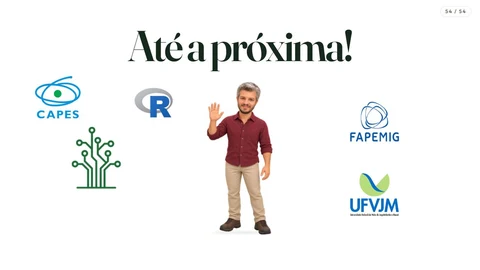
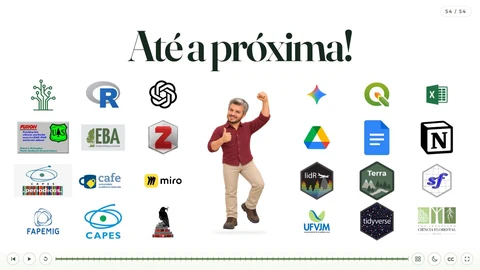
ok

diff --git a/slide-overview.js b/slide-overview.js
@@ -82,7 +82,7 @@
       const theme = document.body.classList.contains('projector') ? 'light' : 'original';
       const current = getCurrentSlide();
       cards.forEach(card => {
-        card.image.src = `assets/slides/${theme}/${String(card.slide).padStart(2, '0')}.webp?v=20261026-despedida-simbolos-2`;
+        card.image.src = `assets/slides/${theme}/${String(card.slide).padStart(2, '0')}.webp?v=20261026-despedida-acumulada-24`;
         card.button.classList.toggle('is-current', card.slide === current);
         if (card.slide === current) card.button.setAttribute('aria-current', 'page');
         else card.button.removeAttribute('aria-current');

diff --git a/index.html b/index.html
@@ -746,7 +746,7 @@
 <script src="foliage-intro.js?v=beaa0df02c16"></script>
 <script src="bookends.js?v=10c9e34ed564"></script>
 <script src="projector-theme.js?v=d73ce17c23a6"></script>
-<script src="slide-overview.js?v=828186cda1f4"></script>
+<script src="slide-overview.js?v=3b66d46094d2"></script>
 <script src="main.js?v=17fc735998a8"></script>
 </body>
 </html>

diff --git a/assets/characters/gustavo-acumulacao-prompt.md b/assets/characters/gustavo-acumulacao-prompt.md
@@ -1,8 +1,8 @@
 # Poses novas para a despedida
 
-Arquivo: `gustavo-acumulacao.png`, PNG RGBA 1024 × 1536, criado com a ferramenta integrada imagegen a partir de `gustavo.png`. As quatro poses são malabarismo, carregar uma pilha, agarrar no alto e comemorar. Os recortes SVG em `index.html` preservam mãos e calçados, inclusive os dedos da pose de agarrar que ultrapassam a divisão horizontal da folha de poses.
+Arquivo: [gustavo-acumulacao.png](C:/Users/Linse/Downloads/josi/assets/characters/gustavo-acumulacao.png), PNG RGBA 1024 × 1536, criado com a ferramenta integrada imagegen a partir de `gustavo.png`. As quatro poses são malabarismo, carregar uma pilha, agarrar no alto e comemorar. Os recortes SVG em `index.html` preservam mãos e calçados, inclusive os dedos da pose de agarrar que ultrapassam a divisão horizontal da folha de poses.
 
-O slide final acumula os 23 símbolos e os conserva na tela. Não há reinício automático que esconda os logos. Sair e voltar ao slide recomeça a encenação.
+O slide final acumula os 24 símbolos e os conserva na tela. Não há reinício automático que esconda os logos. Sair e voltar ao slide recomeça a encenação.
 
 ## Prompt final
 
